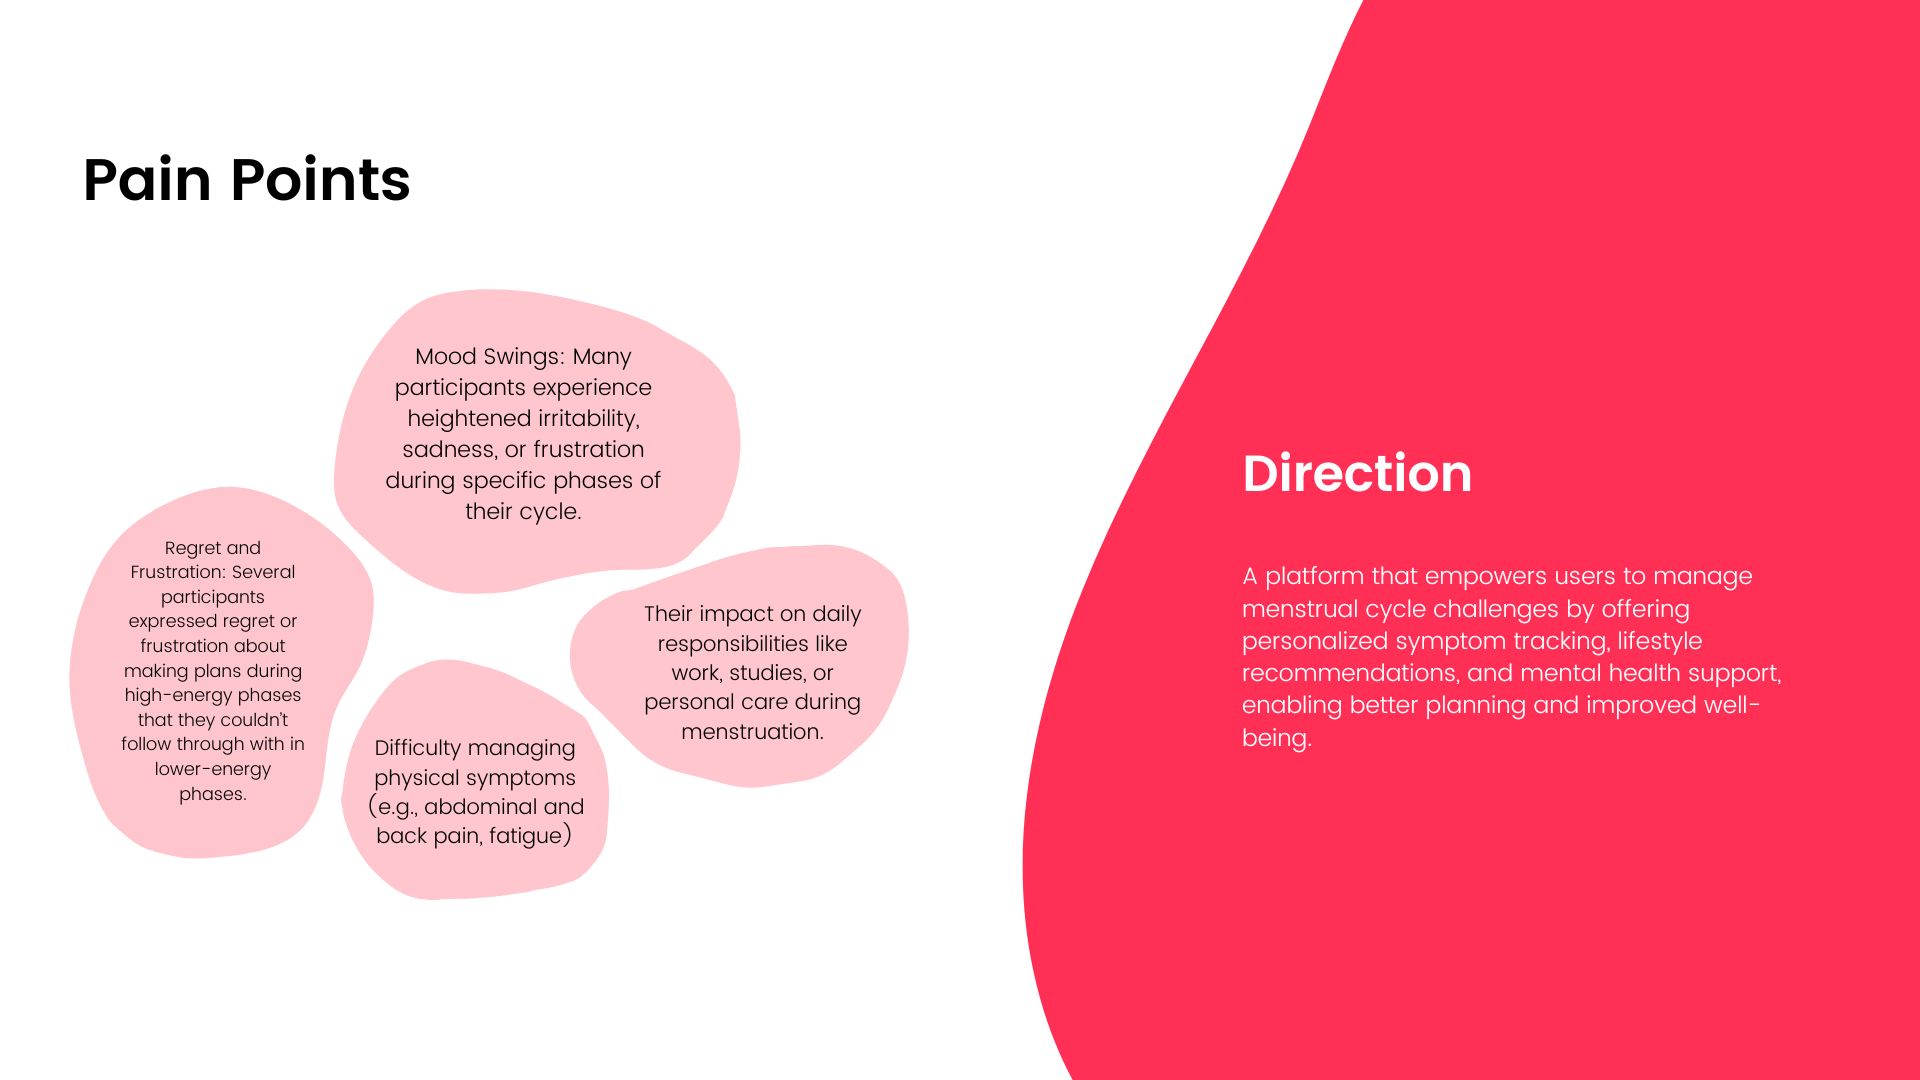
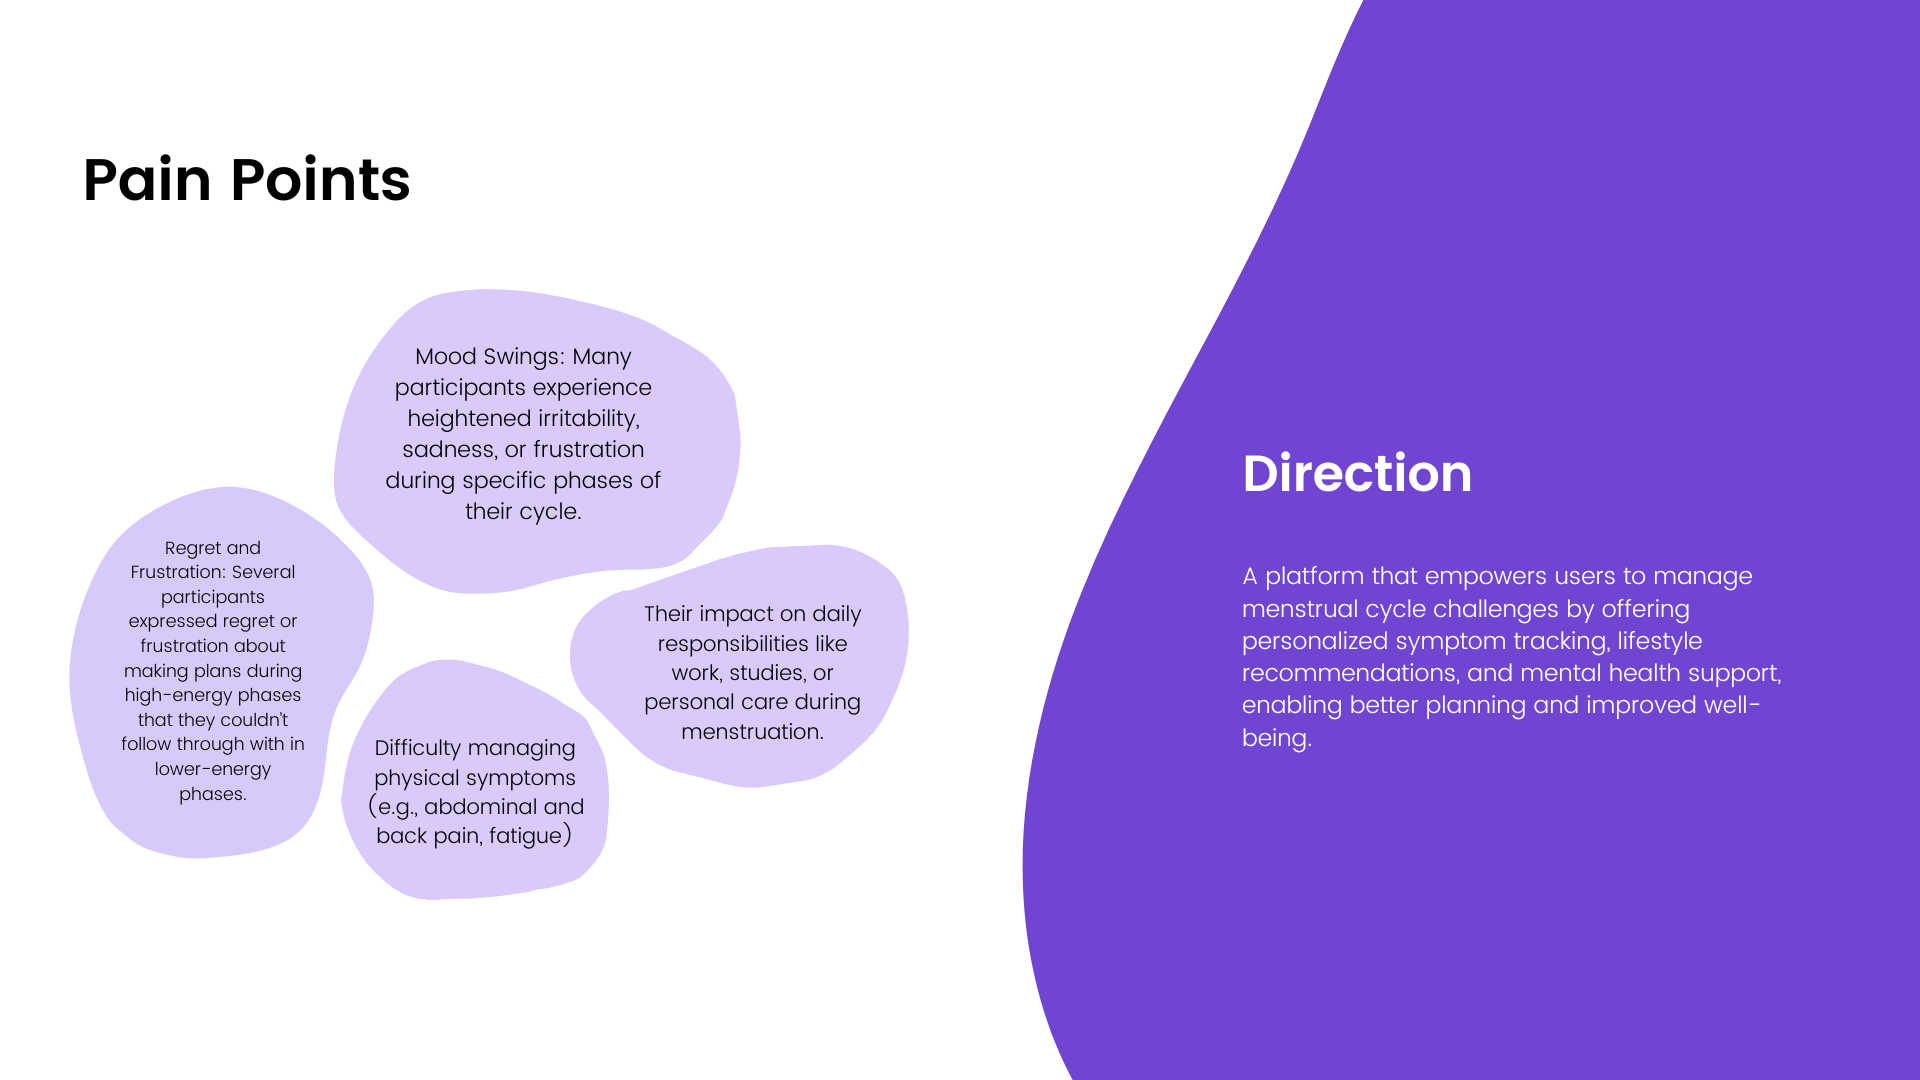
cycleogist new ui

diff --git a/index.html b/index.html
@@ -54,7 +54,7 @@
         <div class="project-thumb" data-project="project2">
           <div class="project-card">
             <div class="thumb-image">
-              <img src="images/cycleogist mockup 1.png" alt="Project 2" />
+              <img src="images/cycleogist/thumbnail_bg.png" alt="Project 2" />
             </div>
             <div class="thumb-content">
               <div class="thumb-inner">
@@ -329,7 +329,7 @@
       <div class="project-full" id="project2">
         <div class="project-thumb-full bg-project2">
           <div class="project-thumb-image">
-            <img src="images/cycleogist mockup 1 tp.png" alt="Project 2 Thumbnail">
+            <img src="images/cycleogist/thumbnail.png" alt="Project 2 Thumbnail">
           </div>
           <div class="project-thumb-text">
             <h1>cycleogist</h1>
@@ -375,7 +375,7 @@
                 </p>
               </div>
               <div class="project-split-image">
-                <img src="images/cycleogist basics.png" alt="Project Image Right">
+                <img src="images/cycleogist/cycle_1.png" alt="Project Image Right">
               </div>
             </div>
 
@@ -387,7 +387,7 @@
                 </p>
               </div>
               <div class="project-split-image">
-                <img src="images/cycleogist planning.png" alt="Project Image Right">
+                <img src="images/cycleogist/cycle_2.png" alt="Project Image Right">
               </div>
             </div>
 
@@ -399,7 +399,7 @@
                 </p>
               </div>
               <div class="project-split-image">
-                <img src="images/cycleogist education.png" alt="Project Image Right">
+                <img src="images/cycleogist/cycle_3.png" alt="Project Image Right">
               </div>
             </div>
 
@@ -411,7 +411,7 @@
                 </p>
               </div>
               <div class="project-split-image">
-                <img src="images/cycleogist community.png" alt="Project Image Right">
+                <img src="images/cycleogist/cycle_4.png" alt="Project Image Right">
               </div>
             </div>
 

diff --git a/style.css b/style.css
@@ -435,7 +435,7 @@ body::-webkit-scrollbar,
 
 .split-number-2 {
   font-size: 1.5rem;
-  background: #eb4373;
+  background: #7045D2;
   color: #fff;
   padding: 0.3rem 0.8rem;
   border-radius: 8px;
@@ -678,7 +678,7 @@ body::-webkit-scrollbar,
 }
 
 .bg-project2 {
-  background-color: #FFD8DF; /* Soft blue */
+  background-color: #D8C9FB; /* Soft blue */
 }
 
 .bg-project3 {
